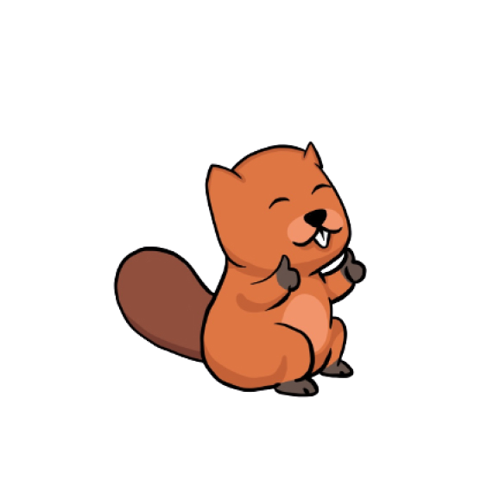
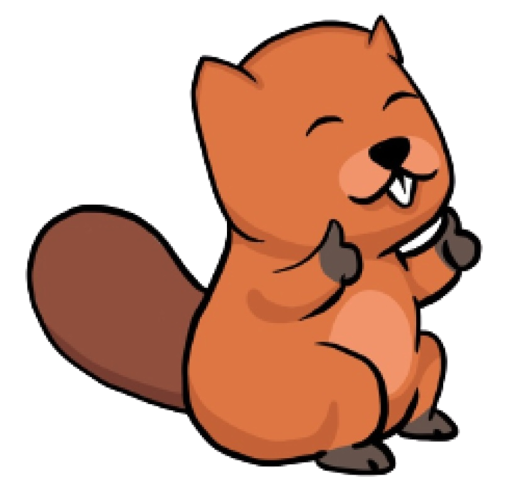
style: 💄 로그인 버튼 css 수정 & 비버 이미지 일부수정

diff --git a/front/src/pages/User/LoginPage/style.scss b/front/src/pages/User/LoginPage/style.scss
@@ -7,26 +7,84 @@
   overflow: hidden;
 }
 
-.logo {
+.login-logo {
   z-index: 100;
-  width: rem(300);
-  height: rem(300);
-  margin-bottom: 1rem;
+  width: 13rem;
+  height: 10rem;
+  margin-top: 1rem;
+  margin-right: 1rem;
 }
 
 .login-container {
   z-index: 100;
-}
 
-.MY {
-  color: $primary;
-  font-size: rem(90);
-  font-family: $eng-title;
-}
+  .login-title-container {
+    .MY {
+      color: $primary;
+      font-size: rem(90);
+      font-family: $eng-title;
+    }
 
-.INI {
-  font-size: rem(90);
-  font-family: $eng-title;
+    .INI {
+      font-size: rem(90);
+      font-family: $eng-title;
+    }
+  }
+
+  .login-google-btn {
+    position: relative;
+    display: block;
+    margin: 0 auto;
+    padding: rem(22) rem(45);
+    overflow: hidden;
+    color: #fff;
+    font-weight: 700;
+    font-size: 15px;
+    text-align: center;
+    text-transform: uppercase;
+    background-color: $third;
+    border: none;
+    border-radius: 15px;
+    outline: none;
+    box-shadow: 0 5px 15px rgba(0, 0, 0, 0.2);
+    cursor: pointer;
+  }
+
+  .login-google-btn span {
+    position: relative;
+    z-index: 1;
+    line-height: 1px;
+
+    .google-logo {
+      padding-right: rem(10);
+      font-size: rem(20);
+    }
+
+    .start-with-google {
+      font-size: rem(20);
+      font-family: $eng-title;
+      text-align: center;
+    }
+  }
+
+  .login-google-btn::after {
+    position: absolute;
+    top: 0;
+    left: 0;
+    width: 140%;
+    height: 490%;
+    background: $primary;
+    -webkit-transform: translateX(-98%) translateY(-25%) rotate(45deg);
+    transform: translateX(-98%) translateY(-25%) rotate(45deg);
+    -webkit-transition: all 0.5s ease-in-out;
+    transition: all 0.5s ease-in-out;
+    content: '';
+  }
+
+  .login-google-btn:hover::after {
+    -webkit-transform: translateX(-9%) translateY(-25%) rotate(45deg);
+    transform: translateX(-9%) translateY(-25%) rotate(45deg);
+  }
 }
 
 .wave-container {
@@ -44,10 +102,10 @@
   top: 165%;
   left: -63%;
   z-index: 0;
-  width: 4000px;
-  height: 4000px;
-  margin-top: -250px;
-  margin-left: -250px;
+  width: rem(4000);
+  height: rem(4000);
+  margin-top: rem(-250);
+  margin-left: rem(-250);
   background: $fourth;
   border-radius: 43%;
   transform-origin: 50% 48%;

diff --git a/front/src/pages/User/LoginPage/index.tsx b/front/src/pages/User/LoginPage/index.tsx
@@ -1,8 +1,17 @@
 import Login from 'assets/login_btn.png';
-import logo from 'assets/logo.png';
+import logo from 'assets/icon.png';
 import './style.scss';
 
+// 3rd party
+import { FontAwesomeIcon } from '@fortawesome/react-fontawesome';
+import { faGoogle } from '@fortawesome/free-brands-svg-icons';
+
 export default function LoginPage() {
+  const moveToMain = () => {
+    window.location.href =
+      'https://k7b203.p.ssafy.io/oauth2/authorization/google';
+  };
+
   return (
     <div className="login-page">
       <div className="wave-container">
@@ -11,15 +20,18 @@ export default function LoginPage() {
         <div className="wave -three" />
       </div>
 
-      <img src={logo} alt="logo" className="logo" />
+      <img src={logo} alt="logo" className="login-logo" />
       <div className="login-container">
-        <div>
+        <div className="login-title-container">
           <span className="MY">MY</span>
           <span className="INI">INI</span>
         </div>
-        <a href="https://k7b203.p.ssafy.io/oauth2/authorization/google">
-          <img src={Login} alt="" className="login-btn" />
-        </a>
+        <button type="button" className="login-google-btn" onClick={moveToMain}>
+          <span>
+            <FontAwesomeIcon icon={faGoogle} className="google-logo" />
+            <span className="start-with-google">Google로 시작하기</span>
+          </span>
+        </button>
       </div>
     </div>
   );

diff --git a/front/src/components/ProjectCard/index.tsx b/front/src/components/ProjectCard/index.tsx
@@ -25,10 +25,9 @@ export default function ProjectCard() {
       {myProjectList.map((content, idx) => {
         return (
           <div key={idx} className="card">
-            <Link to={`/project/${content.projectId}`}>
+            <Link to={`/project/${content.projectId}`} className="card-link">
               <div className="card-header">
                 <div className="card-header-title">{content.projectName}</div>
-                <div>{content.projectId}</div>
               </div>
               <div className="card-body">
                 <div className="card-body-header">

diff --git a/front/src/pages/MainPage/style.scss b/front/src/pages/MainPage/style.scss
@@ -14,12 +14,12 @@
 .user-name {
   color: $primary;
   font-size: rem(60);
-  font-family: $eng-title;
+  font-family: $kor;
 }
 
 .user-ini {
   font-size: rem(60);
-  font-family: $eng-title;
+  font-family: $kor;
 }
 
 .project-info {
@@ -103,6 +103,11 @@
   height: rem(300);
   flex-shrink: 0;
   margin-right: 4rem;
+
+  .card-logo {
+    width: rem(120);
+    height: rem(100);
+  }
 
   .project-start {
     @include FLEX-CENTER;

diff --git a/front/src/api/index.ts b/front/src/api/index.ts
@@ -12,10 +12,12 @@ const headers = {
 
 export const getApi = async (url: string) => {
   try {
+    console.log('여기까지 들어옴.');
     const data = await axios.get(`${url}`, headers);
     return data;
   } catch (err) {
-    console.log(err);
+    console.log(err, '에러입니다.');
+    console.log(axios.defaults.baseURL, 'baseurl');
     // alert('문제가 발생했습니다');
     return err;
   }

diff --git a/front/src/components/ProjectCard/style.scss b/front/src/components/ProjectCard/style.scss
@@ -1,1 +1,5 @@
 @import 'variables.scss';
+
+.card-link {
+  color: $black;
+}
